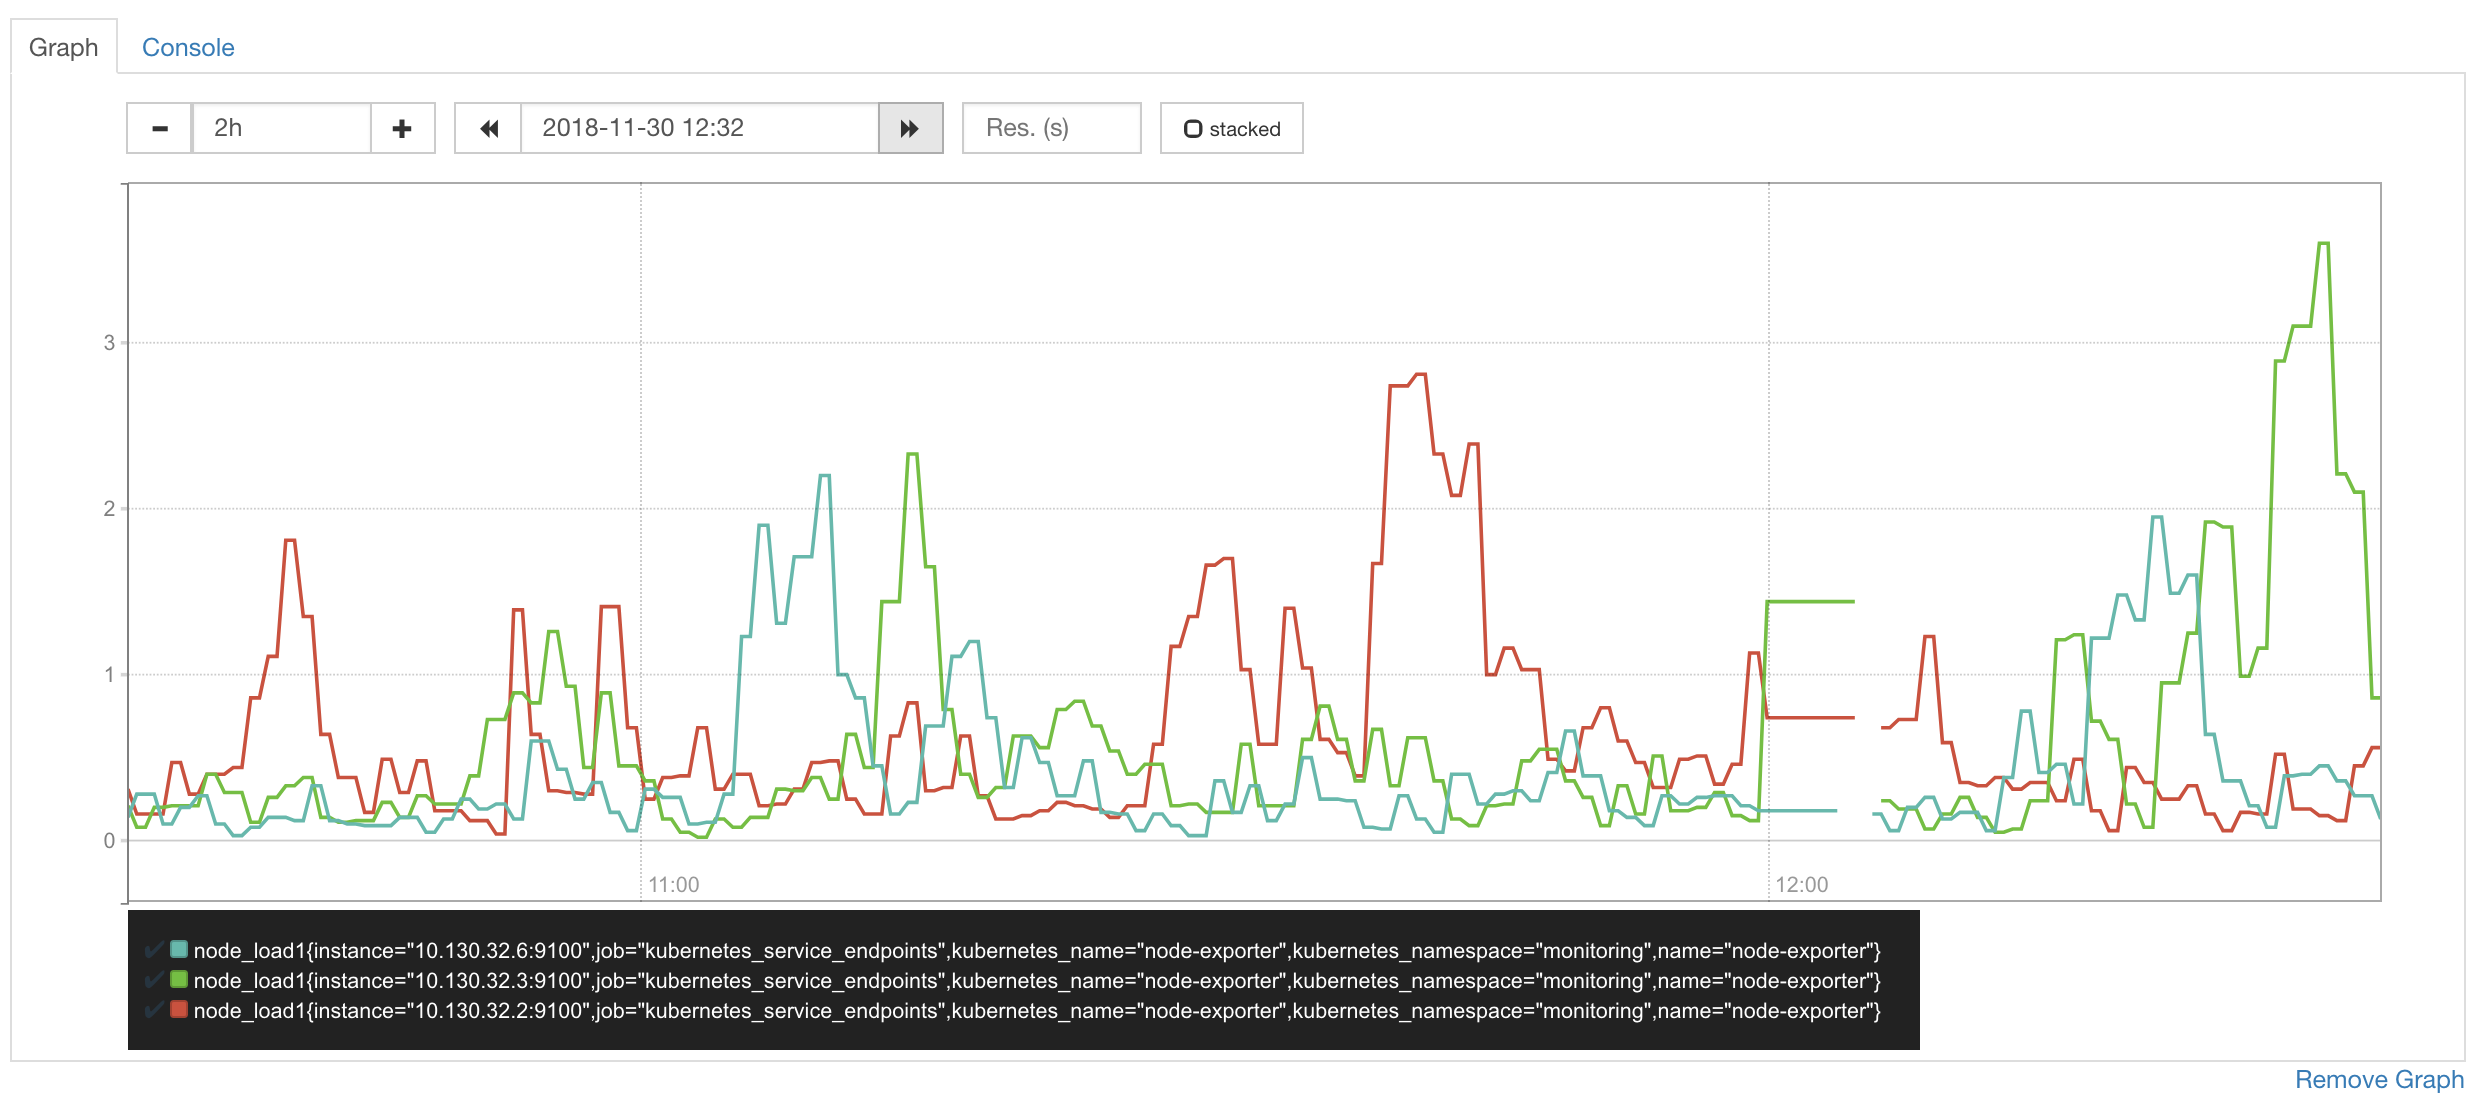
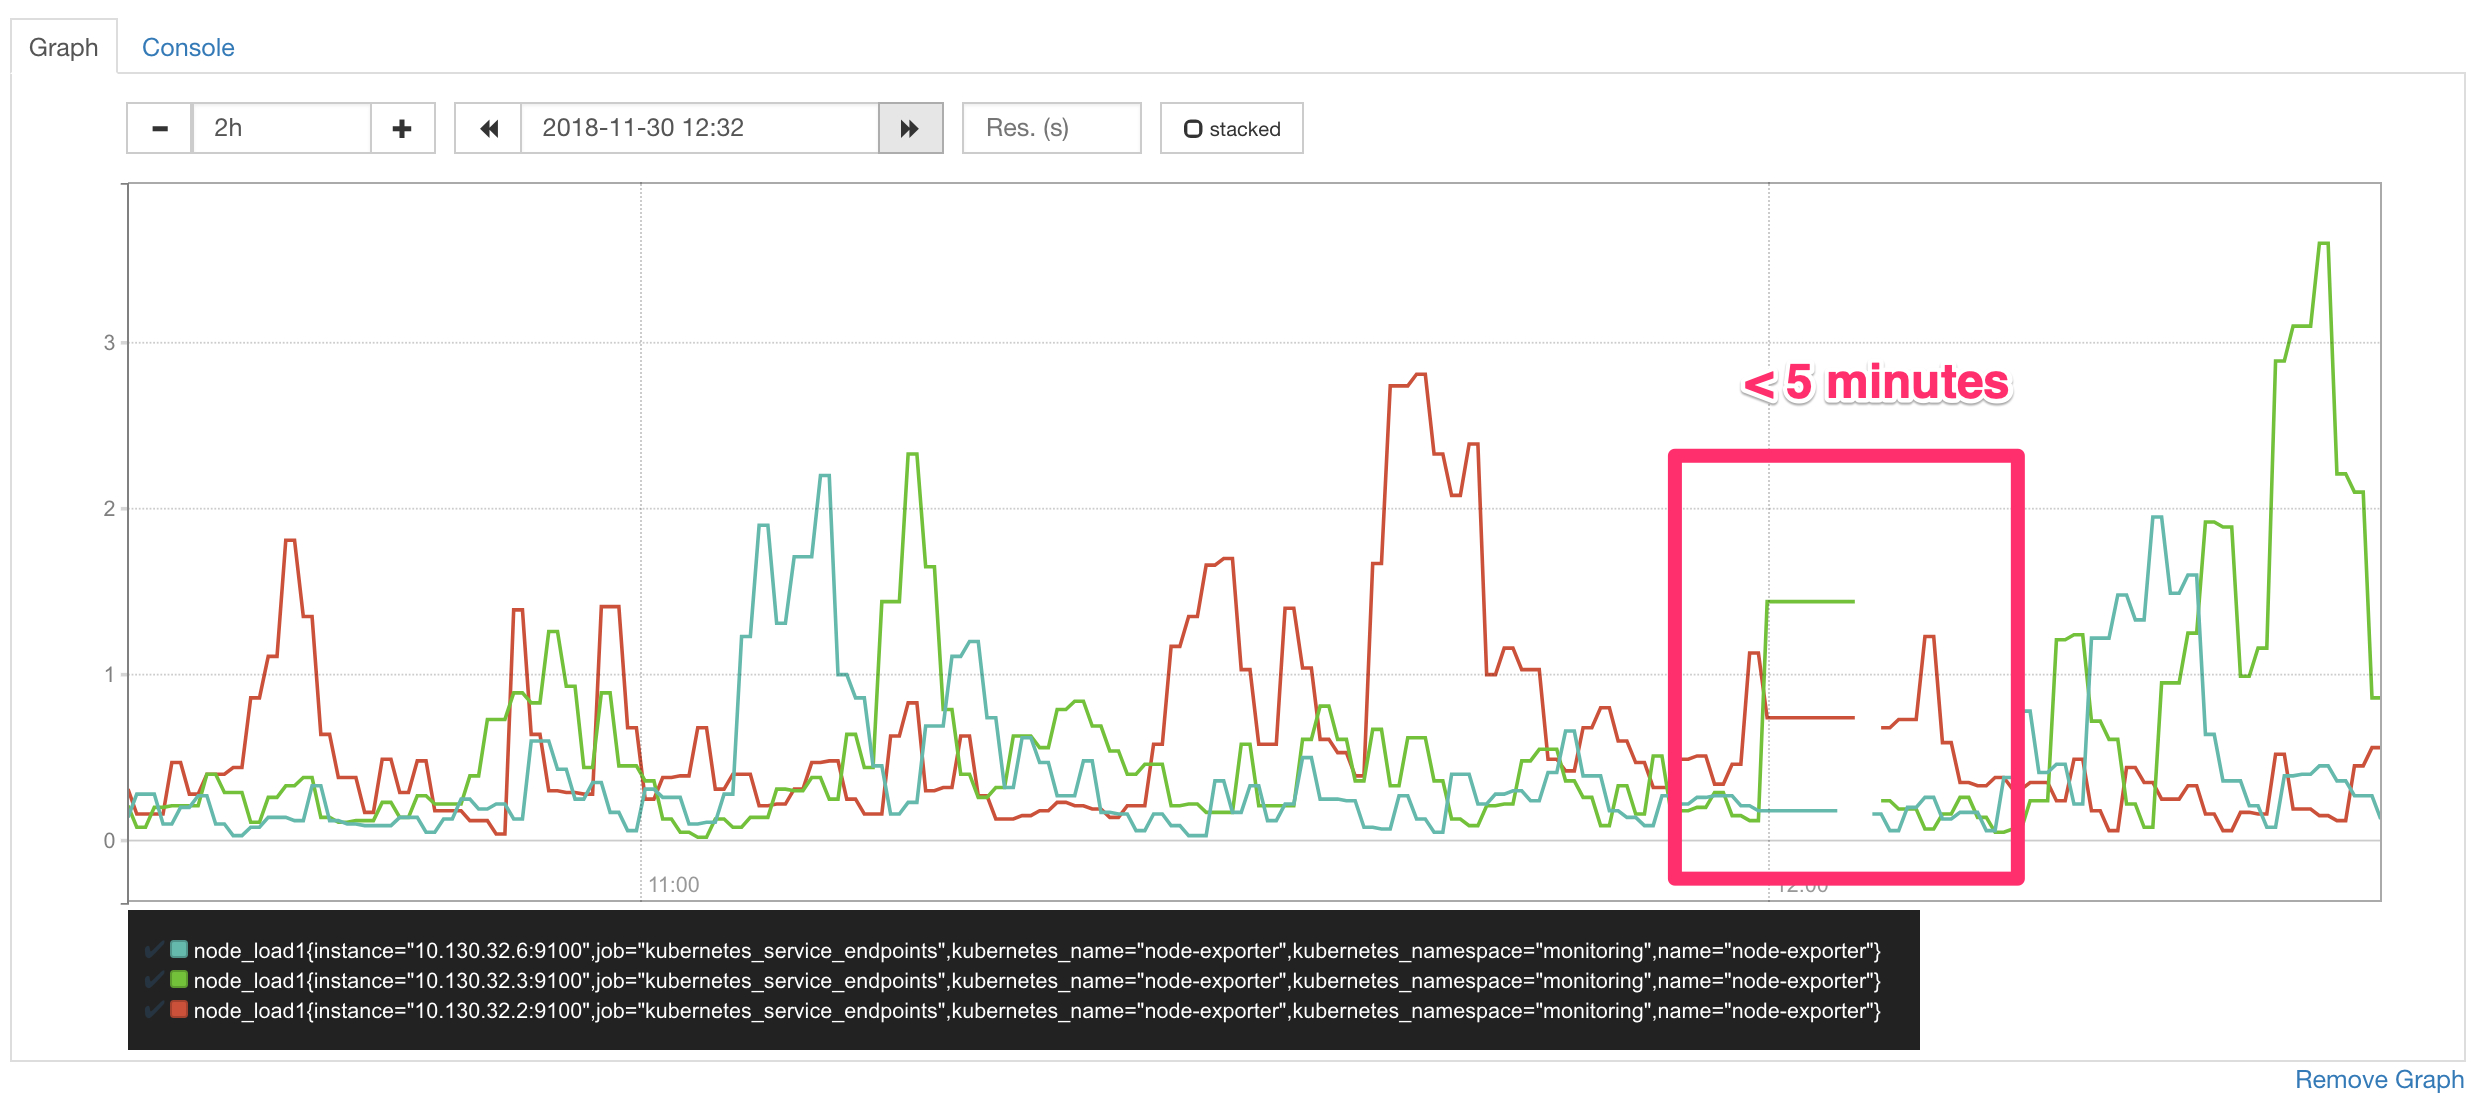
Changing image and cleaning docs

Changed region(s): [[0.6515, 0.3996, 0.8376, 0.7993], [0.6825, 0.3382, 0.8066, 0.3689]]

diff --git a/docs/migration-guides/prometheus-migration.md b/docs/migration-guides/prometheus-migration.md
@@ -1,19 +1,21 @@
 # Prometheus Time Series Database migration
-This article provides a set of guidelines to migrate the time series database from an existing Prometheus deployment to the Bitnami Kubernetes Production Runtime one.
+This article provides a set of guidelines to migrate the time series database (TSDB from now on) from an existing Prometheus deployment to the Bitnami Kubernetes Production Runtime one.
 
 ## Prerequisites
 The following prerequisites should be met before starting with the migration process:
 
 * You ave a healthy Kubernetes cluster running.
-* You have a Prometheus deployment that *matches the BKPR Prometheus version*, which can be obtained [here]([GitHub - bitnami/kube-prod-runtime: A standard runtime environment for Kubernetes]https://github.com/bitnami/kube-prod-runtime#release-compatibility).
+* You have a Prometheus deployment that *matches the BKPR Prometheus version*, which can be obtained [here](https://github.com/bitnami/kube-prod-runtime#release-compatibility).
+
 This article will not cover the upgrade process of Prometheus itself. If you need to update your Prometheus deployment, check the [Prometheus docs](https://prometheus.io/docs/prometheus/latest/migration/)
 
 ## Overview
-This chapter provides an overview of the required steps to migrate the Prometheus time series database (TSDB from now on) from an already running deployment to the BKPR Prometheus one.
 
-This process is meant to provide a zero downtime migration to the new StatefulSet  by having two Prometheus instances running at the same time during the whole process. These instances will be modified to include a sidecar container that will deploy an *rsync* client and server with access to the Prometheus data volume in order to move a Prometheus TSDB snapshot from one pod to another.
+This chapter provides an overview of the required steps to migrate the Prometheus TSDB from an already running deployment to the BKPR Prometheus one.
 
-As Prometheus doesn’t include yet a *flush* method to dump all the WAL file that is being written into a snapshot with a block format that doesn’t overlap time ranges (see [this issue](https://github.com/prometheus/tsdb/issues/346) for more context) it is necessary to sync with the Prometheus TSDB compact times, in order to ensure a minimal data loss (around 3 minutes).
+This process is meant to provide a zero downtime migration to the new StatefulSet by having two Prometheus instances running at the same time. These instances will be modified to include a sidecar container that will deploy an *rsync* client and server with access to the Prometheus data volume in order to move a Prometheus TSDB snapshot from one pod to another.
+
+As Prometheus doesn’t include yet a *flush* method to dump all the WAL file that is being written into a snapshot with a block format that doesn’t overlap time ranges (see [this issue](https://github.com/prometheus/tsdb/issues/346) for more context) it is necessary to sync with the Prometheus TSDB compact times, in order to ensure a minimal data loss (less than 5 minutes).
 
 These are the steps that will be made to accomplish this migration:
 
@@ -23,6 +25,7 @@ These are the steps that will be made to accomplish this migration:
 * Perform the snapshot and restore it in the new deployment
 
 ## Deploying the sidecar rsync server
+
 In order to access via rsync to the Prometheus TSDB snapshots, it will be necessary to deploy a rsync server with a minimal configuration to make it so.
 
 This way, you can use the following jsonnet snippet to add that sidecar container:
@@ -142,6 +145,7 @@ prometheus-rsync.NAMESPACE.svc.cluster.local (10.130.32.5:873) open
 ```
 
 ## Modifying the `kubeprod-manifest.jsonnet` to add the sidecar rsync container
+
 The `kubeprod-manifest.jsonnet` file will contain all the custom configuration you want to apply to the jsonnet manifests.  In this case, in order to add the rsync sidecar container the following configuration will have to be added:
 
 ```jsonnet
@@ -203,7 +207,7 @@ and:
 > Make sure previously you have deployed a test file in your Prometheus data directory so you can rsync it to the new container
 
 ## Syncing with the compact times of the Prometheus database
-Now that all the bits are in place you are ready to perform the Prometheus TSDB migration. To do so, you will first have to sync with the TSDB compact times of Prometheus to ensure the minimal data loss.
+Now that all bits are in place you are ready to perform the Prometheus TSDB migration. To do so, you will first have to sync with the TSDB compact times of Prometheus to ensure the minimal data loss.
 
 ### Doing a Prometheus TSDB migration
 
@@ -237,11 +241,11 @@ If I do this, I will find the following:
 
 This way I would have lost 1 hour of Prometheus metrics.
 
-In order to ensure the minimal data loss, the new Prometheus deployment *must* be deployed 55 mins (ensuring with this less than 5 mins of data loss) before  the next TSDB compact happens, so the new Prometheus deployment can start scrapping data before the snapshot is restored. Continuing with the last example:
+In order to ensure a minimal data loss, the new Prometheus deployment should be deployed 55 mins (ensuring with this less than 5 mins of data loss) before  the next TSDB compact happens, so the new Prometheus deployment can start scrapping data before the snapshot is restored. Continuing with the last example:
 
 If I notice the next TSDB compact will happen at 13:00 UTC I should deploy BKPR Prometheus in the cluster at 12:05 UTC, so Prometheus can start scrapping data and fill the gap that the snapshot will create. Then, at 13:00 UTC I will create a Prometheus snapshot and will restore it in the new deployment, creating the following:
 
-[../../images/prometheus-migration/tsdb_restored.png]
+![prometheus_successful_migration](../../images/prometheus-migration/tsdb_restored.png)
 
 ## Create a snapshot and restore it in the new Prometheus deployment
 
